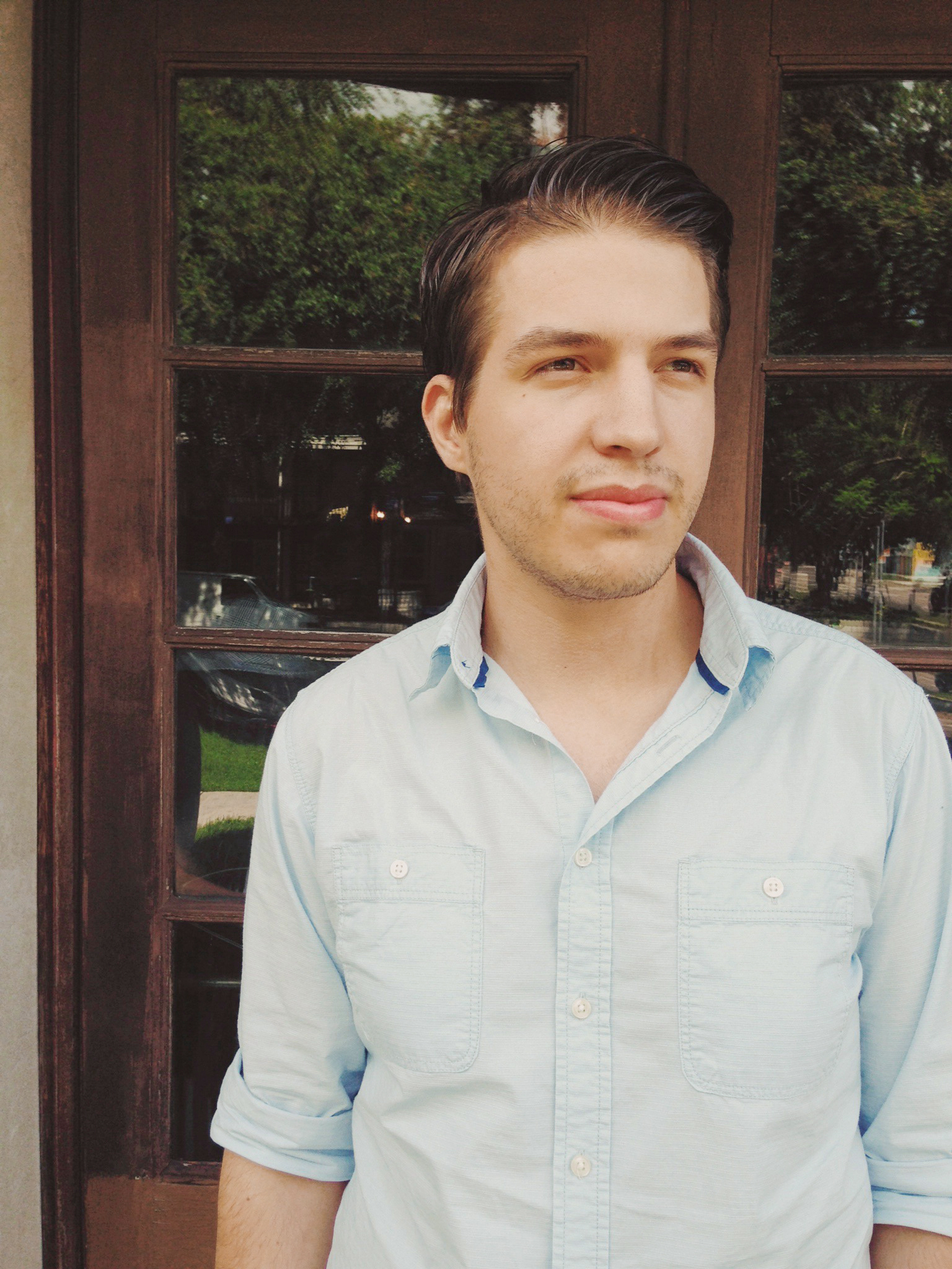
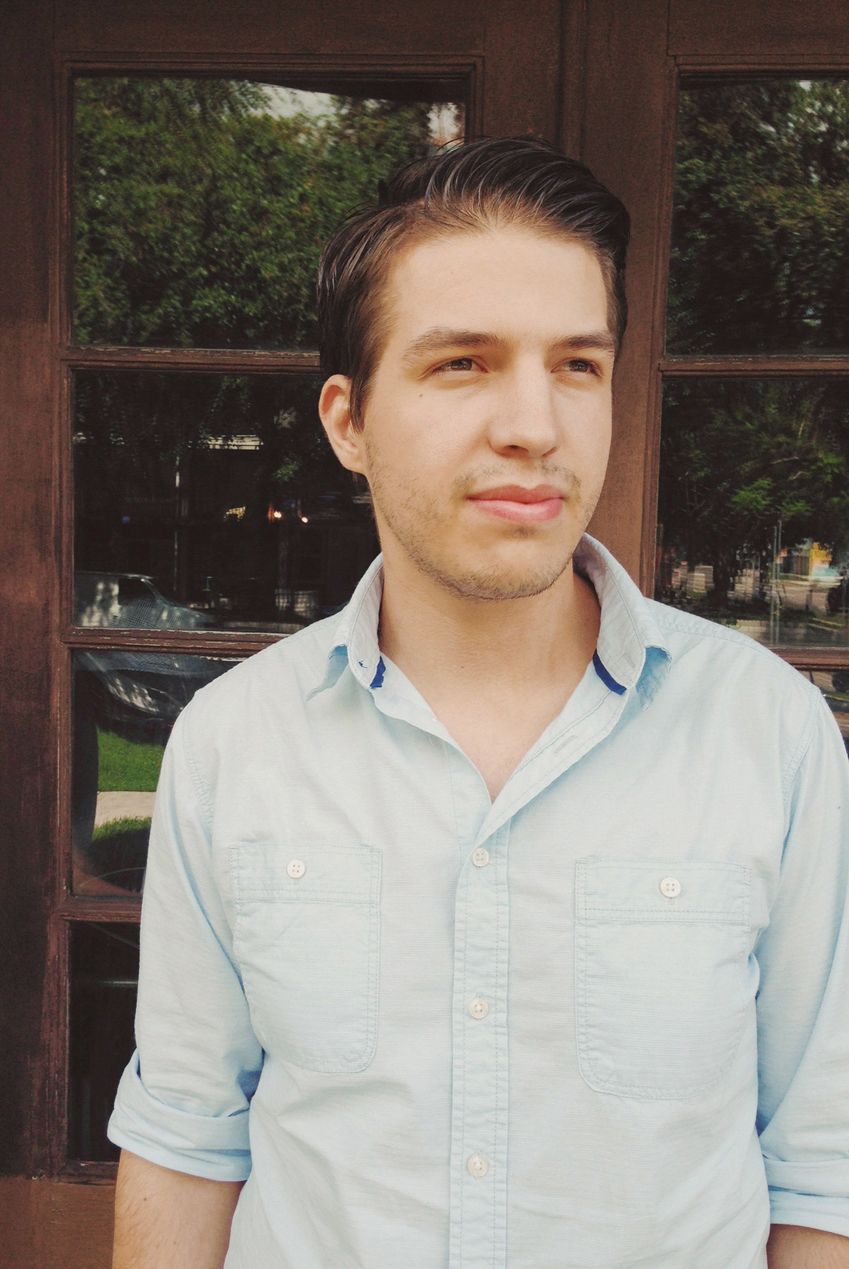
Updated image to cut off left side. Removed negative margin on image for posts page until a better solution can be found.

diff --git a/assets/css/main.css b/assets/css/main.css
@@ -1,1 +1,1 @@
-/* normalize.css 2012-03-11T12:53 UTC - http://github.com/necolas/normalize.css */article,aside,details,figcaption,figure,footer,header,hgroup,nav,section,summary{display:block}audio,canvas,video{display:inline-block;*display:inline;*zoom:1}audio:not([controls]){display:none;height:0}[hidden]{display:none}html{font-size:100%;-webkit-text-size-adjust:100%;-ms-text-size-adjust:100%}html,button,input,select,textarea{font-family:sans-serif}body{margin:0}a:focus{outline:thin dotted}a:hover,a:active{outline:0}h1{font-size:2em;margin:0.67em 0}h2{font-size:1.5em;margin:0.83em 0}h3{font-size:1.17em;margin:1em 0}h4{font-size:1em;margin:1.33em 0}h5{font-size:0.83em;margin:1.67em 0}h6{font-size:0.75em;margin:2.33em 0}abbr[title]{border-bottom:1px dotted}b,strong{font-weight:bold}blockquote{margin:1em 40px}dfn{font-style:italic}mark{background:#ff0;color:#000}p,pre{margin:1em 0}pre,code,kbd,samp{font-family:monospace, serif;_font-family:'courier new', monospace;font-size:1em}pre{white-space:pre;white-space:pre-wrap;word-wrap:break-word}q{quotes:none}q:before,q:after{content:'';content:none}small{font-size:75%}sub,sup{font-size:75%;line-height:0;position:relative;vertical-align:baseline}sup{top:-0.5em}sub{bottom:-0.25em}dl,menu,ol,ul{margin:1em 0}dd{margin:0 0 0 40px}menu,ol,ul{padding:0 0 0 40px}nav ul,nav ol{list-style:none;list-style-image:none}img{border:0;-ms-interpolation-mode:bicubic}svg:not(:root){overflow:hidden}figure{margin:0}form{margin:0}fieldset{border:1px solid #c0c0c0;margin:0 2px;padding:0.35em 0.625em 0.75em}legend{border:0;padding:0;white-space:normal;*margin-left:-7px}button,input,select,textarea{font-size:100%;margin:0;vertical-align:baseline;*vertical-align:middle}button,input{line-height:normal}button,input[type="button"],input[type="reset"],input[type="submit"]{cursor:pointer;-webkit-appearance:button;*overflow:visible}button[disabled],input[disabled]{cursor:default}input[type="checkbox"],input[type="radio"]{box-sizing:border-box;padding:0;*height:13px;*width:13px}input[type="search"]{-webkit-appearance:textfield;-moz-box-sizing:content-box;-webkit-box-sizing:content-box;box-sizing:content-box}input[type="search"]::-webkit-search-decoration,input[type="search"]::-webkit-search-cancel-button{-webkit-appearance:none}button::-moz-focus-inner,input::-moz-focus-inner{border:0;padding:0}textarea{overflow:auto;vertical-align:top}table{border-collapse:collapse;border-spacing:0}html{-webkit-font-smoothing:antialiased;text-rendering:optimizeLegibility}h1,h2,h3,h4,h5,h6{margin:0;padding:0;font-weight:normal}*{-moz-box-sizing:border-box;-webkit-box-sizing:border-box;box-sizing:border-box;background-repeat:no-repeat;position:relative}html,body{height:100%;overflow:hidden}body{font-family:"proxima-nova",Proxima Nova,sans-serif;font-weight:300;color:#7f8c8d}header{margin-bottom:70px}h1,h2,h3,h4,h5,h6{color:#34495e;margin-top:2em}h1{font-size:2.4em}h2,h3,h4,h5,h6{font-weight:400}.me{max-height:100%;width:auto;border-right:10px solid #ecf0f1;float:left;margin-left:-100px}.logo{border:0;display:inline-block;margin-left:-160px;margin-top:40px;float:left}.logo:hover{border:0}.logo img{width:110px;height:110px}body.post .me{margin-left:-350px}.content{padding:70px;height:100%;overflow:scroll}a{text-decoration:none;color:#2980b9;border-bottom:2px solid #e7f2fa;-webkit-transition:border-bottom 100ms ease-in-out;-moz-transition:border-bottom 100ms ease-in-out;-o-transition:border-bottom 100ms ease-in-out;transition:border-bottom 100ms ease-in-out}a:hover{border-bottom:2px solid #94c6e7}hr{border:0;background:#ecf0f1;height:2px;margin:1em 0}.my-name{color:#233140;font-weight:400;font-size:3.5em;margin-bottom:40px}.intro{font-size:2em;color:#7f8c8d;line-height:1.5em}.greeting{font-size:2em;color:#7f8c8d;line-height:.75em}p{font-size:1.2em;line-height:1.5em}blockquote{border-left:10px solid #ecf0f1;margin:1em 2em;padding:.5em 2em;font-size:1.4em;line-height:1.4em;color:#34495e}code{font-family:"source-code-pro",Source Code Pro;color:#34495e;font-weight:400;font-size:.9em}pre{border-left:10px solid #ecf0f1;margin:1em 2em;padding:.5em 2em}pre code{font-size:1em}ul{margin:1em;list-style:square}li{font-size:1.2em;margin:.5em;padding-left:.3em}.grid{overflow:hidden;display:none}.grid img{display:block;float:left;width:33.333333333%}.posts h2:first-child{margin-top:0}.post h1:first-child{margin-top:0}
+/* normalize.css 2012-03-11T12:53 UTC - http://github.com/necolas/normalize.css */article,aside,details,figcaption,figure,footer,header,hgroup,nav,section,summary{display:block}audio,canvas,video{display:inline-block;*display:inline;*zoom:1}audio:not([controls]){display:none;height:0}[hidden]{display:none}html{font-size:100%;-webkit-text-size-adjust:100%;-ms-text-size-adjust:100%}html,button,input,select,textarea{font-family:sans-serif}body{margin:0}a:focus{outline:thin dotted}a:hover,a:active{outline:0}h1{font-size:2em;margin:0.67em 0}h2{font-size:1.5em;margin:0.83em 0}h3{font-size:1.17em;margin:1em 0}h4{font-size:1em;margin:1.33em 0}h5{font-size:0.83em;margin:1.67em 0}h6{font-size:0.75em;margin:2.33em 0}abbr[title]{border-bottom:1px dotted}b,strong{font-weight:bold}blockquote{margin:1em 40px}dfn{font-style:italic}mark{background:#ff0;color:#000}p,pre{margin:1em 0}pre,code,kbd,samp{font-family:monospace, serif;_font-family:'courier new', monospace;font-size:1em}pre{white-space:pre;white-space:pre-wrap;word-wrap:break-word}q{quotes:none}q:before,q:after{content:'';content:none}small{font-size:75%}sub,sup{font-size:75%;line-height:0;position:relative;vertical-align:baseline}sup{top:-0.5em}sub{bottom:-0.25em}dl,menu,ol,ul{margin:1em 0}dd{margin:0 0 0 40px}menu,ol,ul{padding:0 0 0 40px}nav ul,nav ol{list-style:none;list-style-image:none}img{border:0;-ms-interpolation-mode:bicubic}svg:not(:root){overflow:hidden}figure{margin:0}form{margin:0}fieldset{border:1px solid #c0c0c0;margin:0 2px;padding:0.35em 0.625em 0.75em}legend{border:0;padding:0;white-space:normal;*margin-left:-7px}button,input,select,textarea{font-size:100%;margin:0;vertical-align:baseline;*vertical-align:middle}button,input{line-height:normal}button,input[type="button"],input[type="reset"],input[type="submit"]{cursor:pointer;-webkit-appearance:button;*overflow:visible}button[disabled],input[disabled]{cursor:default}input[type="checkbox"],input[type="radio"]{box-sizing:border-box;padding:0;*height:13px;*width:13px}input[type="search"]{-webkit-appearance:textfield;-moz-box-sizing:content-box;-webkit-box-sizing:content-box;box-sizing:content-box}input[type="search"]::-webkit-search-decoration,input[type="search"]::-webkit-search-cancel-button{-webkit-appearance:none}button::-moz-focus-inner,input::-moz-focus-inner{border:0;padding:0}textarea{overflow:auto;vertical-align:top}table{border-collapse:collapse;border-spacing:0}html{-webkit-font-smoothing:antialiased;text-rendering:optimizeLegibility}h1,h2,h3,h4,h5,h6{margin:0;padding:0;font-weight:normal}*{-moz-box-sizing:border-box;-webkit-box-sizing:border-box;box-sizing:border-box;background-repeat:no-repeat;position:relative}html,body{height:100%;overflow:hidden}body{font-family:"proxima-nova",Proxima Nova,sans-serif;font-weight:300;color:#7f8c8d}header{margin-bottom:70px}h1,h2,h3,h4,h5,h6{color:#34495e;margin-top:2em}h1{font-size:2.4em}h2,h3,h4,h5,h6{font-weight:400}.me{max-height:100%;width:auto;border-right:10px solid #ecf0f1;float:left}.logo{border:0;display:inline-block;margin-left:-160px;margin-top:40px;float:left}.logo:hover{border:0}.logo img{width:110px;height:110px}.content{padding:70px;height:100%;overflow:scroll}a{text-decoration:none;color:#2980b9;border-bottom:2px solid #e7f2fa;-webkit-transition:border-bottom 100ms ease-in-out;-moz-transition:border-bottom 100ms ease-in-out;-o-transition:border-bottom 100ms ease-in-out;transition:border-bottom 100ms ease-in-out}a:hover{border-bottom:2px solid #94c6e7}hr{border:0;background:#ecf0f1;height:2px;margin:1em 0}.my-name{color:#233140;font-weight:400;font-size:3.5em;margin-bottom:40px}.intro{font-size:2em;color:#7f8c8d;line-height:1.5em}.greeting{font-size:2em;color:#7f8c8d;line-height:.75em}p{font-size:1.2em;line-height:1.5em}blockquote{border-left:10px solid #ecf0f1;margin:1em 2em;padding:.5em 2em;font-size:1.4em;line-height:1.4em;color:#34495e}code{font-family:"source-code-pro",Source Code Pro;color:#34495e;font-weight:400;font-size:.9em}pre{border-left:10px solid #ecf0f1;margin:1em 2em;padding:.5em 2em}pre code{font-size:1em}ul{margin:1em;list-style:square}li{font-size:1.2em;margin:.5em;padding-left:.3em}.grid{overflow:hidden;display:none}.grid img{display:block;float:left;width:33.333333333%}.posts h2:first-child{margin-top:0}.post h1:first-child{margin-top:0}

diff --git a/assets/scss/main.scss b/assets/scss/main.scss
@@ -31,7 +31,6 @@ h2,h3,h4,h5,h6 {font-weight:400;}
   width:auto;
   border-right:10px solid #ecf0f1;
   float:left;
-  margin-left:-100px;
 }
 
 .logo {
@@ -46,10 +45,6 @@ h2,h3,h4,h5,h6 {font-weight:400;}
     width:110px;
     height:110px;
   }
-}
-
-body.post .me {
-  margin-left:-350px;
 }
 
 .content {
